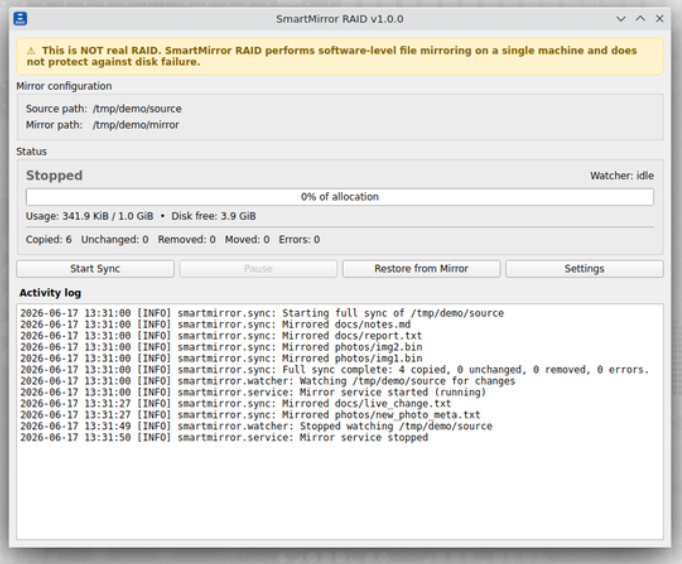
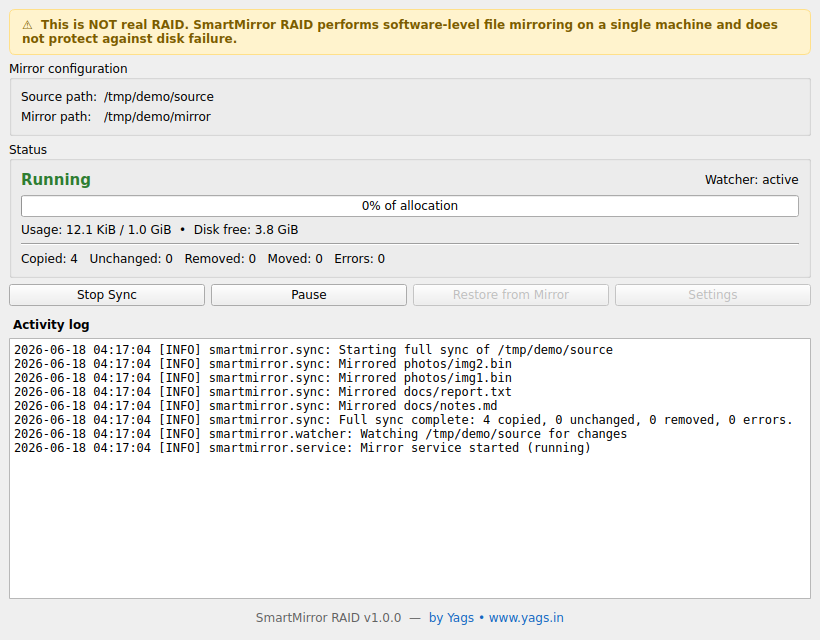
Add permanent 'by Yags (www.yags.in)' footer to UI + README screenshot

diff --git a/smartmirror/ui/main_window.py b/smartmirror/ui/main_window.py
@@ -4,7 +4,7 @@ from __future__ import annotations
 
 import threading
 
-from PySide6.QtCore import QTimer, Signal
+from PySide6.QtCore import Qt, QTimer, Signal
 from PySide6.QtGui import QColor, QTextCursor
 from PySide6.QtWidgets import (
     QCheckBox,
@@ -34,7 +34,7 @@ from ..service import (
     MirrorService,
     ServiceStatus,
 )
-from ..version import APP_NAME, NOT_REAL_RAID_WARNING, __version__
+from ..version import APP_NAME, AUTHOR_URL, FOOTER_TEXT, NOT_REAL_RAID_WARNING, __version__
 from .settings_dialog import SettingsDialog
 
 _STATE_COLORS = {
@@ -123,6 +123,20 @@ class MainWindow(QMainWindow):
         self.log_view.setMaximumBlockCount(5000)
         self.log_view.setStyleSheet("font-family: monospace; font-size: 12px;")
         root.addWidget(self.log_view, stretch=1)
+
+        root.addWidget(self._build_footer())
+
+    def _build_footer(self) -> QLabel:
+        footer = QLabel(
+            f'{APP_NAME} v{__version__} &nbsp;—&nbsp; '
+            f'<a href="{AUTHOR_URL}" style="color:#1565c0; text-decoration:none;">'
+            f"{_escape(FOOTER_TEXT)}</a>"
+        )
+        footer.setObjectName("footer")
+        footer.setOpenExternalLinks(True)
+        footer.setAlignment(Qt.AlignCenter)
+        footer.setStyleSheet("color:#616161; padding:6px; font-size:12px;")
+        return footer
 
     def _build_paths_group(self) -> QGroupBox:
         box = QGroupBox("Mirror configuration")

diff --git a/smartmirror/version.py b/smartmirror/version.py
@@ -12,3 +12,9 @@ NOT_REAL_RAID_WARNING = (
     "This is NOT real RAID. SmartMirror RAID performs software-level file "
     "mirroring on a single machine and does not protect against disk failure."
 )
+
+# Permanent authorship credit. This attribution is fixed and must remain
+# unchanged regardless of who else contributes to the project.
+AUTHOR_NAME = "Yags"
+AUTHOR_URL = "https://www.yags.in"
+FOOTER_TEXT = f"by {AUTHOR_NAME} \u2022 www.yags.in"

diff --git a/tests/test_branding.py b/tests/test_branding.py
@@ -1,0 +1,9 @@
+"""The author footer is a permanent attribution and must not change."""
+
+from smartmirror.version import AUTHOR_NAME, AUTHOR_URL, FOOTER_TEXT
+
+
+def test_footer_is_fixed() -> None:
+    assert AUTHOR_NAME == "Yags"
+    assert AUTHOR_URL == "https://www.yags.in"
+    assert FOOTER_TEXT == "by Yags \u2022 www.yags.in"

diff --git a/README.md b/README.md
@@ -13,13 +13,20 @@ machine using software-level file replication.
 
 ## Screenshots
 
-**Dashboard** — source/mirror paths, sync status, storage usage bar, controls and a live activity log:
+**Dashboard** — source/mirror paths, sync status, storage usage bar, controls, a live activity log, and the permanent author footer:
 
 ![SmartMirror RAID dashboard](docs/screenshots/dashboard.png)
 
 **Settings** — pick source & mirror folders, set the mirror size allocation, versioning, hash verification and start-on-login:
 
 ![SmartMirror RAID settings](docs/screenshots/settings.png)
+
+**Footer** — a fixed credit is shown at the bottom of every screen:
+
+![SmartMirror RAID footer — by Yags · www.yags.in](docs/screenshots/footer.png)
+
+> The footer (**by Yags · [www.yags.in](https://www.yags.in)**) is a permanent
+> attribution and is intended to stay in place across builds and contributors.
 
 ## Features
 
